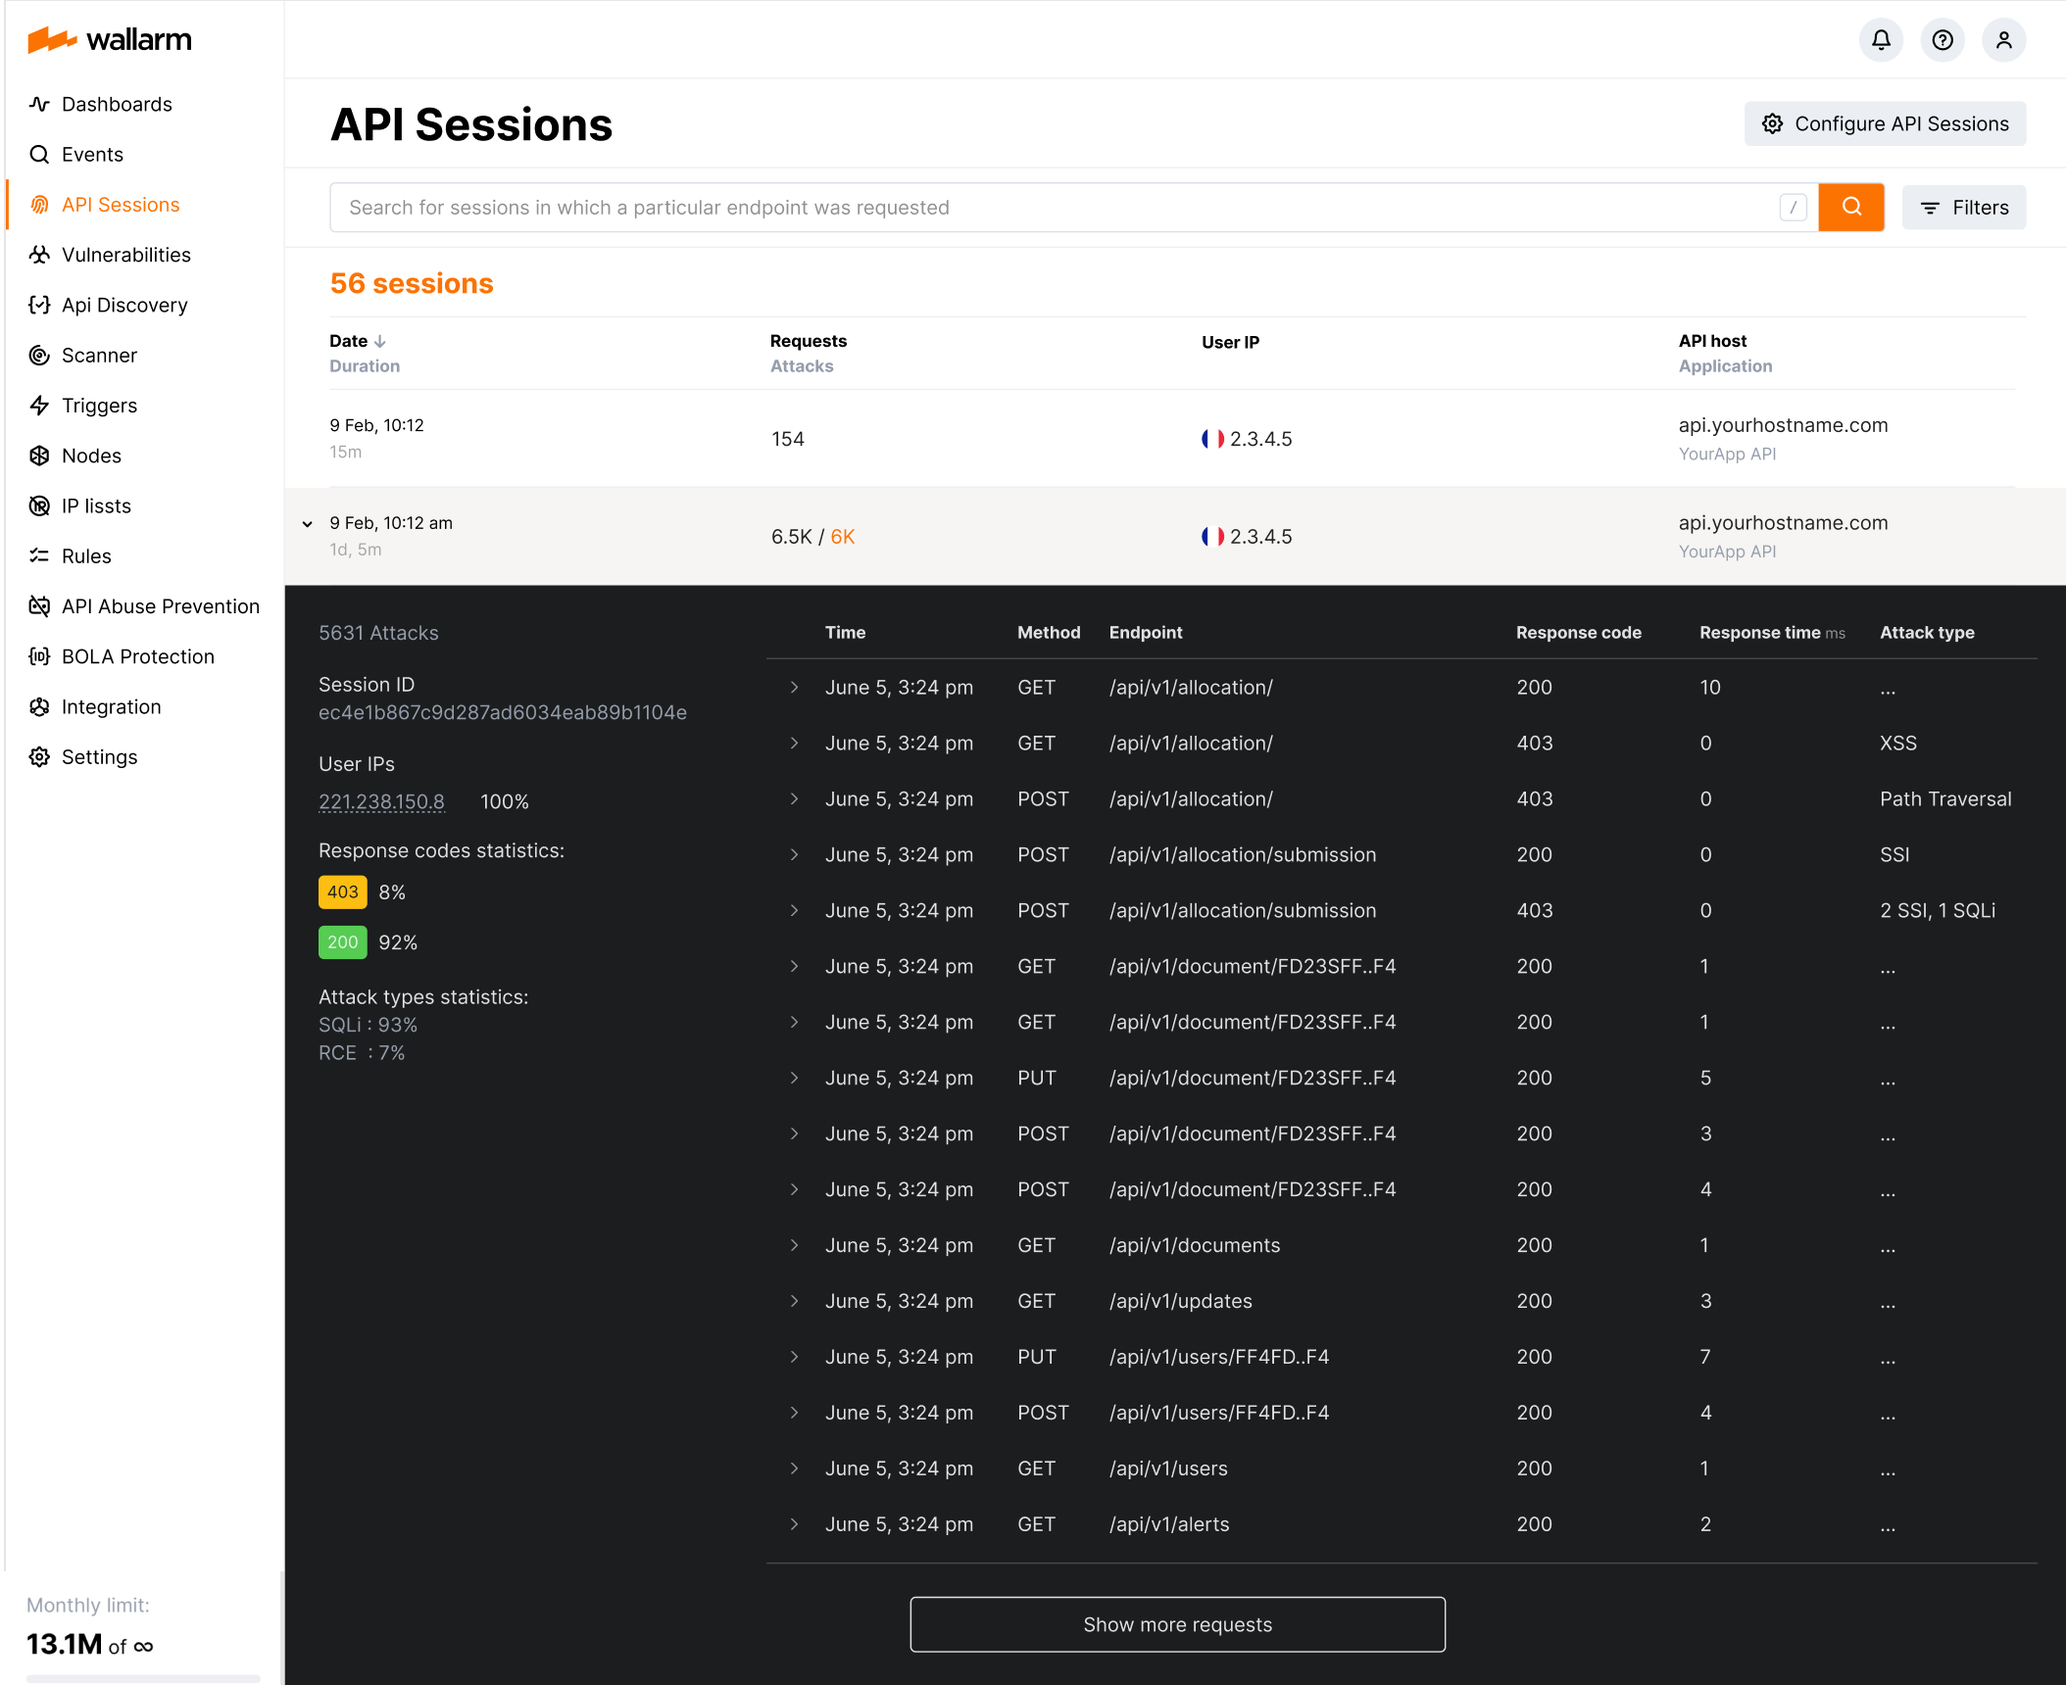
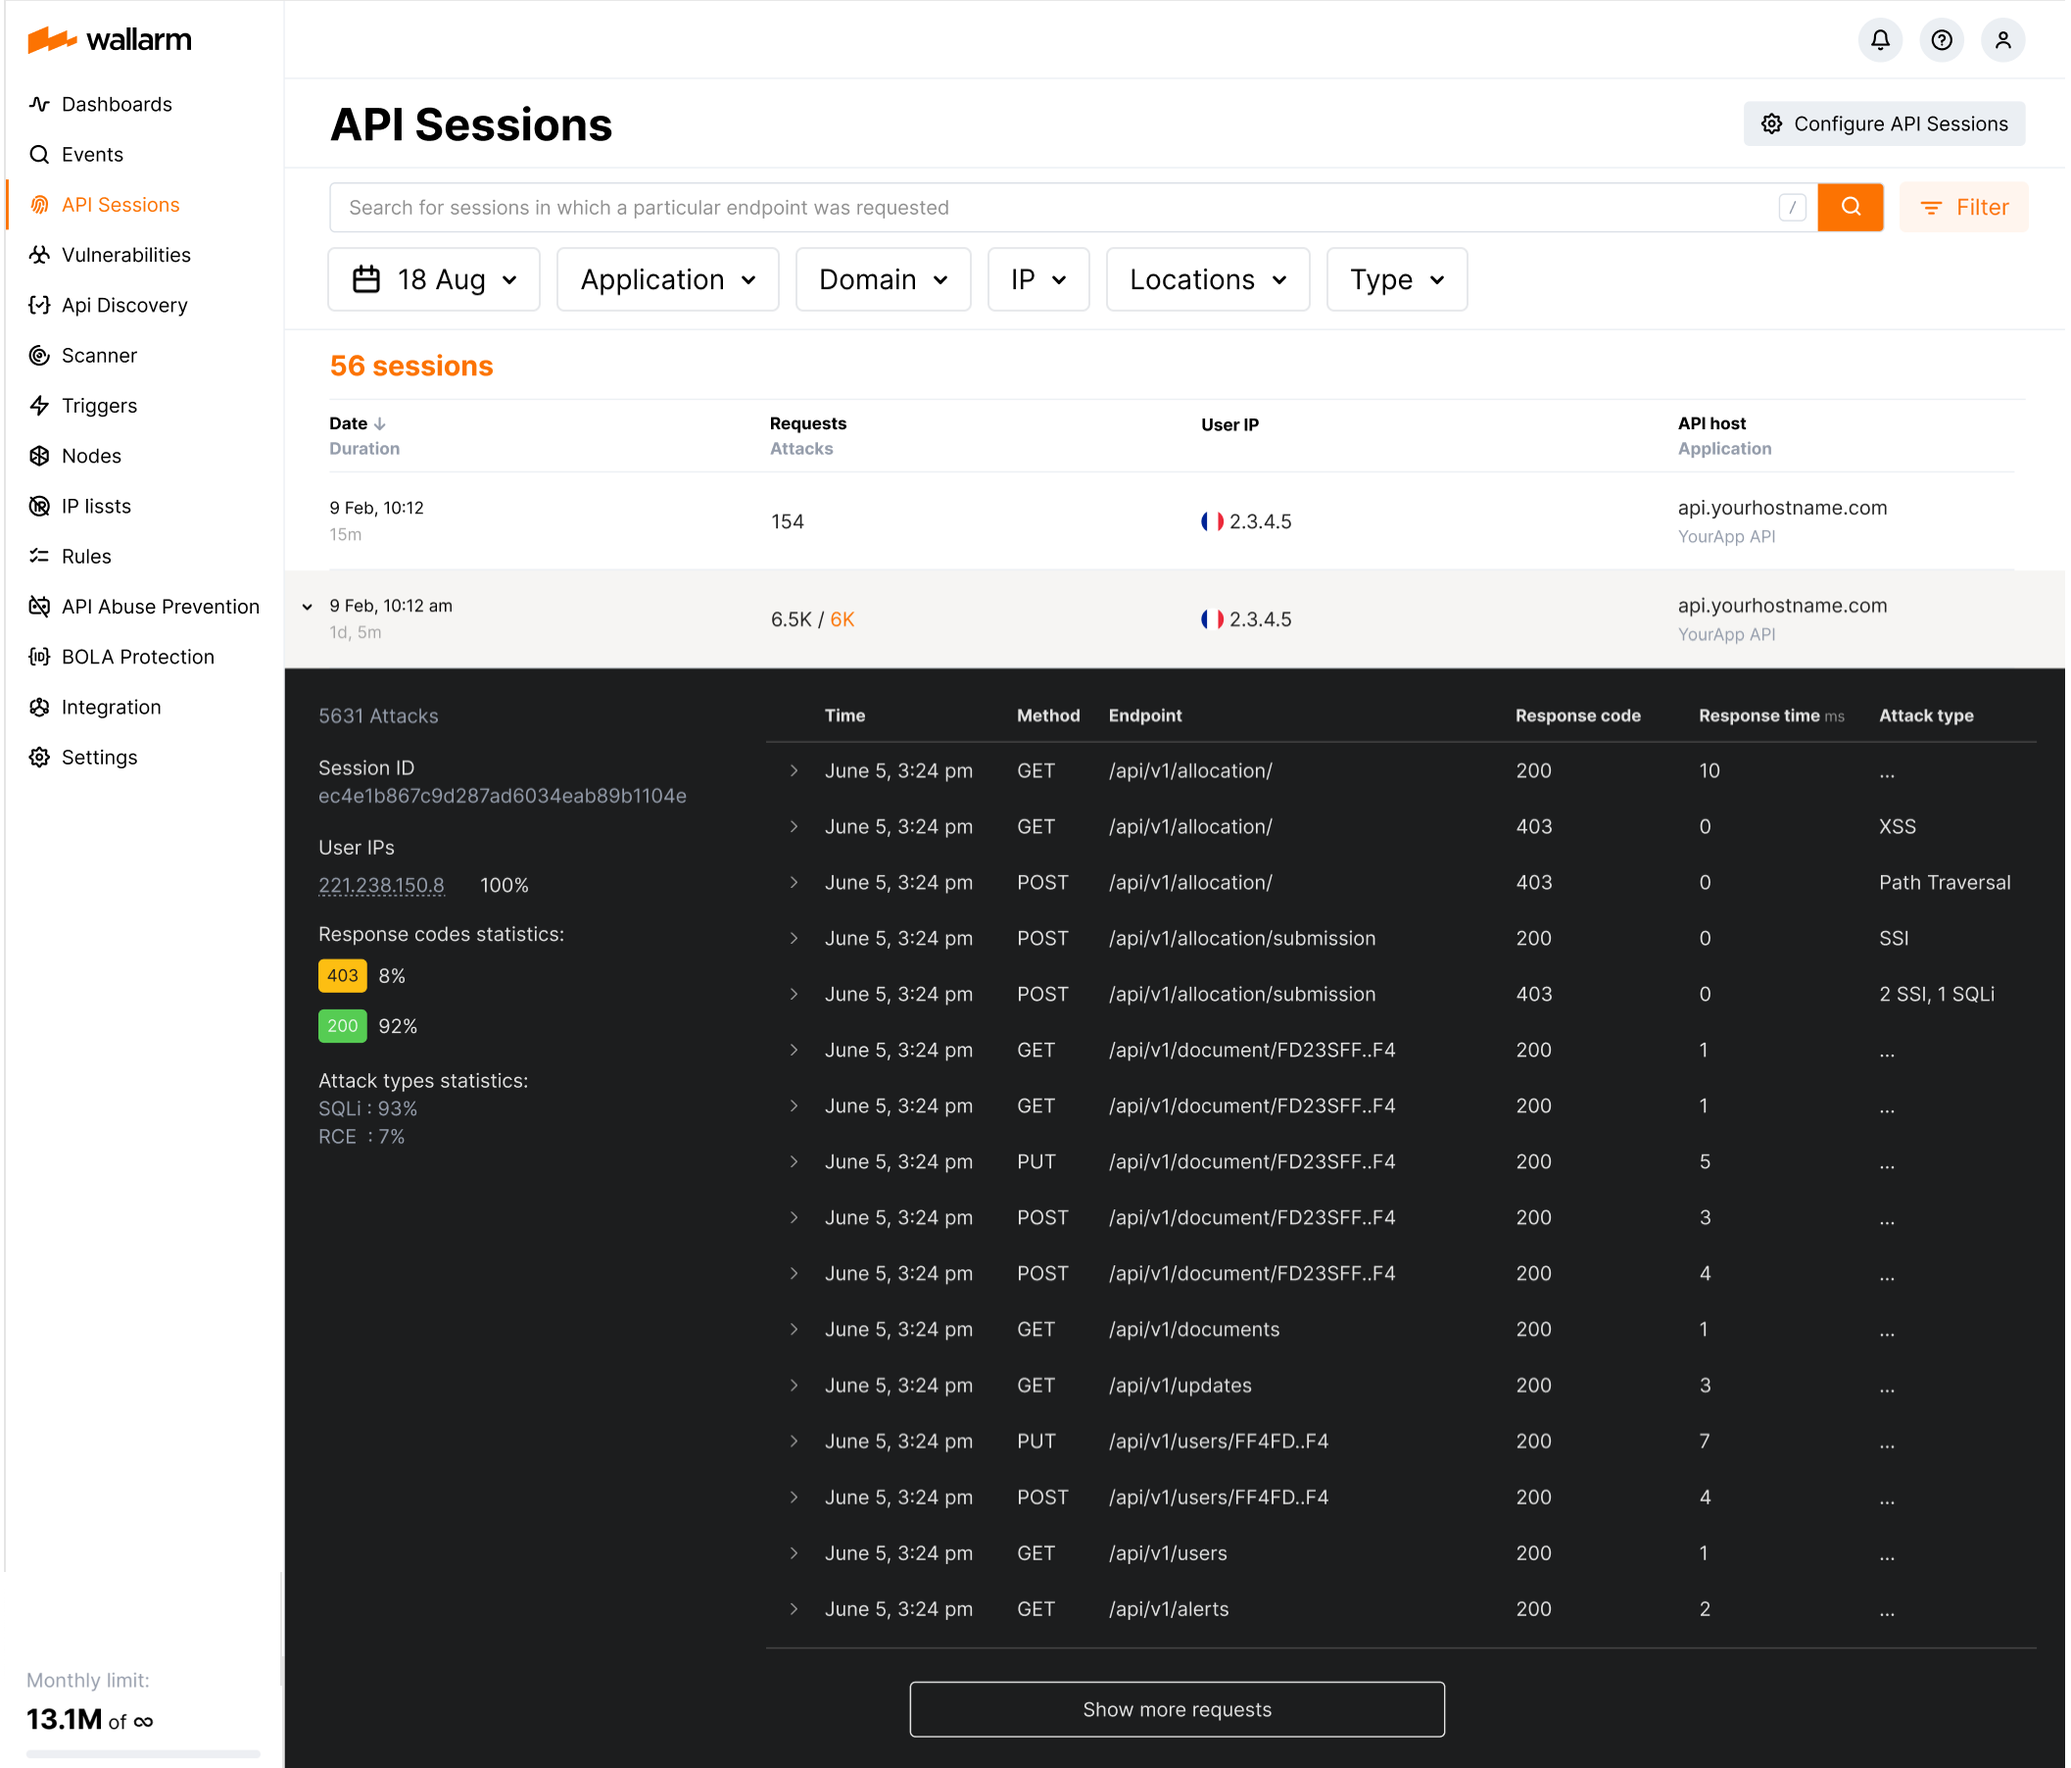
DOCS-2229 Fixes due to comments

diff --git a/docs/latest/about-wallarm/api-sessions.md b/docs/latest/about-wallarm/api-sessions.md
@@ -1,6 +1,6 @@
 # API Sessions <a href="../subscription-plans/#subscription-plans"><img src="../../images/api-security-tag.svg" style="border: none;"></a>
 
-The **API Sessions** module of the Wallarm platform discovers and displays the user sessions in your applications' traffic. Within each discovered session, Wallarm collects information about its requests. This article gives an overview of **API Sessions**: issues addressed by it, its purpose and main possibilities.
+The **API Sessions** module of the Wallarm platform monitors and displays the user sessions in your applications' traffic. Within each monitored session, Wallarm collects information about its requests. This article gives an overview of **API Sessions**: issues addressed by it, its purpose and main possibilities.
 
 For information on how to use the **API Sessions** module, refer to its [user guide](../user-guides/api-sessions.md).
 
@@ -8,32 +8,29 @@ For information on how to use the **API Sessions** module, refer to its [user gu
 
 The main issue the **API Sessions** module deals with is that when dealing only with attacks, presented in the **Events** section, you cannot see their full contexts: the logic sequence of requests that the attack is the part of. This context allows revealing of more general patterns in how your applications are being attacked as well as understanding of which business logic will be affected by the taken security measures.
 
-**As you have the API sessions discovered by Wallarm, you can**:
+**As you have the API sessions monitored by Wallarm, you can**:
 
-* [Track user activity](#viewing-discovered-api-sessions) by displaying a list of requests made in a single session, so you can identify unusual patterns of behavior or deviations from typical usage.
+* [Track user activity](#viewing-monitored-api-sessions) by displaying a list of requests made in a single session, so you can identify unusual patterns of behavior or deviations from typical usage.
 * [Inspect shadow APIs](#inspecting-sessions-with-requests-to-shadow-apis) requested in user sessions.
 * [Identify performance issues](#analyzing-session-performance-issues) and bottlenecks to optimize user experience.
 * Know which API flow/business logic sequences will be affected before tuning a particular false positive, applying the virtual patch, adding rules, or enabling API Abuse controls.
 
 ## How API Sessions module works
 
-The **API Sessions** module analyzes requests to your selected applications or their particular endpoints to join them into the user sessions and display these user sessions for security analysis.
+The **API Sessions** module:
 
-### Default rule
-
-By default, the module includes the default set of request parameters, basing on which values Wallarm will be able to join requests in the separate sessions. However, you always need to manually define the scope: applications and endpoints, for which the session discovery should be performed. You can also enable session discovery for all traffic.
-
-### Custom rules
-
-You can configure the **API Sessions** module to discover sessions basing on your own set of parameters and the rules built in their basis.
+* Monitors requests for hosts/applications that are specified in the settings. You can also enable session monitoring for all traffic.
+* Saves the values of the parameters from the requests' data. Wallarm always uses the set of built-in parameters, you can add custom parameters in the settings.
+* Applies session ID rules to each request. Wallarm applies built-in rules, you can use your custom parameters to add your rules.
+* Using applied session ID, groups request into sessions and displays sessions with their requests in the **API Sessions** section.
 
 See [Configuring API Sessions →](../user-guides/api-sessions.md#configuring-api-sessions)
 
-## Viewing discovered API sessions
+## Viewing monitored API sessions
 
-The **API Sessions** section provides many options for analyzing the discovered API sessions.
+The **API Sessions** section provides many options for analyzing the monitored API sessions.
 
-![!API Sessions section - discovered sessions](../images/api-sessions/api-sessions.png)
+![!API Sessions section - monitored sessions](../images/api-sessions/api-sessions.png)
 
 These options are:
 
@@ -55,7 +52,7 @@ You can analyze session performance issues by expanding the session and then sor
 
 ## Enabling and configuring API Sessions
 
-The **API Discovery** module is disabled by default.
+The **API Sessions** module is disabled by default.
 
 To enable API Sessions:
 
@@ -67,4 +64,4 @@ To enable API Sessions:
 
     ![!API Sessions - Settings](../images/api-sessions/api-sessions-settings.png)
 
-Once the API Sessions module is enabled, it will start the analysis of the requests to your selected applications/endpoints and joining these requests into user sessions. The discovered sessions will be displayed in the **API Sessions** section of Wallarm Console.
+Once the API Sessions module is enabled, it will start the analysis of the requests to your selected applications/endpoints and joining these requests into user sessions. The monitored sessions will be displayed in the **API Sessions** section of Wallarm Console.

diff --git a/docs/latest/user-guides/api-sessions.md b/docs/latest/user-guides/api-sessions.md
@@ -1,25 +1,27 @@
 # API Sessions <a href="../subscription-plans/#subscription-plans"><img src="../../images/api-security-tag.svg" style="border: none;"></a>
 
-The **API Sessions** section of Wallarm Console enables you to manage discovered [API sessions](../about-wallarm/api-sessions.md), as well as to fine-tune this discovery. This guide instructs you on using this section.
+The **API Sessions** section of Wallarm Console enables you to manage monitored [API sessions](../about-wallarm/api-sessions.md), as well as to fine-tune this monitoring. This guide instructs you on using this section.
 
 When the **API Sessions** module is [enabled](#enabling-and-configuring-api-sessions), users of any role, except **API Developer** can view it.
 
-## Viewing discovered sessions
+## Viewing monitored sessions
 
-In the **API Sessions** section, you can view the list of the sessions automatically discovered due to the applied [configuration](#configuring-api-sessions). Expand session to see the included requests.
+In the **API Sessions** section, you can view the list of the sessions automatically monitored due to the applied [configuration](#configuring-api-sessions). Expand session to see the included requests.
 
 ![!API Sessions section](../images/api-sessions/api-sessions.png)
 
+You can use filters and search. You can use fuzzy terms (`*` and `?`) in the search. The search will be performed on the endpoints that were accessed in the sessions.
+
 ## Configuring API Sessions
 
-By clicking the **Configure API Sessions** button in the **API Sessions** section, you proceed to the session discovery options:
+By clicking the **Configure API Sessions** button in the **API Sessions** section, you proceed to the session monitoring options:
 
-* At **Monitored sessions**, select applications or/and endpoints: only requests targeting them will be analyzed for the possibility of joining in a session. You can also select **Monitor all sessions**.
+* At **Monitored sessions**, select hosts or/and applications: only requests targeting them will be analyzed for the possibility of joining in a session. You can also select **Monitor all sessions**.
 
     ![!API Sessions - Settings](../images/api-sessions/api-sessions-settings.png)
 
-* At **Traced parameters**, specify up to 10 request parameters which values should be exported to Wallarm in order to use them for the session identification. Use selected parameters in **Session identification rules**. If nothing is specified, the default set of parameters is used.
-* At **Session identification rules**, specify up to 3 parameters from the **Traced parameters** per session identification rule. Wallarm checks each request for these parameters. If all parameters from rule #1 are present, that rule determines the session ID. Otherwise, proceed to rule #2 and so on. After that the default rules are applied.
+* At **Traced parameters**, specify up to 10 request parameters which values should be exported to Wallarm in order to use them for the session identification or for request analysis. Use selected parameters in **Session identification rules**. Wallarm always uses the set of built-in parameters and rules, the ones added manually extend this set.
+* At **Session identification rules**, add up to 5 rules, specify up to 3 parameters from the **Traced parameters** per each rule. Wallarm checks each request for these parameters. If all parameters from rule #1 are present, that rule determines the session ID. Otherwise, proceed to rule #2 and so on. After that the built-in rules are applied.
 
 For example, if you specify `example.com:8080/path1/path2` URI with `Application 01` additional condition, and add 4 parameters `traced-par-ex-1..4` to trace and then combined:
 
@@ -29,4 +31,4 @@ For example, if you specify `example.com:8080/path1/path2` URI with `Application
 
 ...requests to `Application 01`'s endpoint `example.com:8080/path1/path2` will be analyzed and requests containing both `traced-par-ex-1` and `traced-par-ex-2` and `traced-par-ex-3` will be considered to be the part of the same session. If some of the parameters are missing, rule 2 will be applied.
 
-If, for example, you did not select any custom parameters to trace, you do not create rules and requests to `Application 01`'s endpoint `example.com:8080/path1/path2` are analyzed using default set of parameters.
+If, for example, you did not select any custom parameters to trace, you do not create rules and requests to `Application 01`'s endpoint `example.com:8080/path1/path2` are analyzed using built-in set of parameters and rules.
